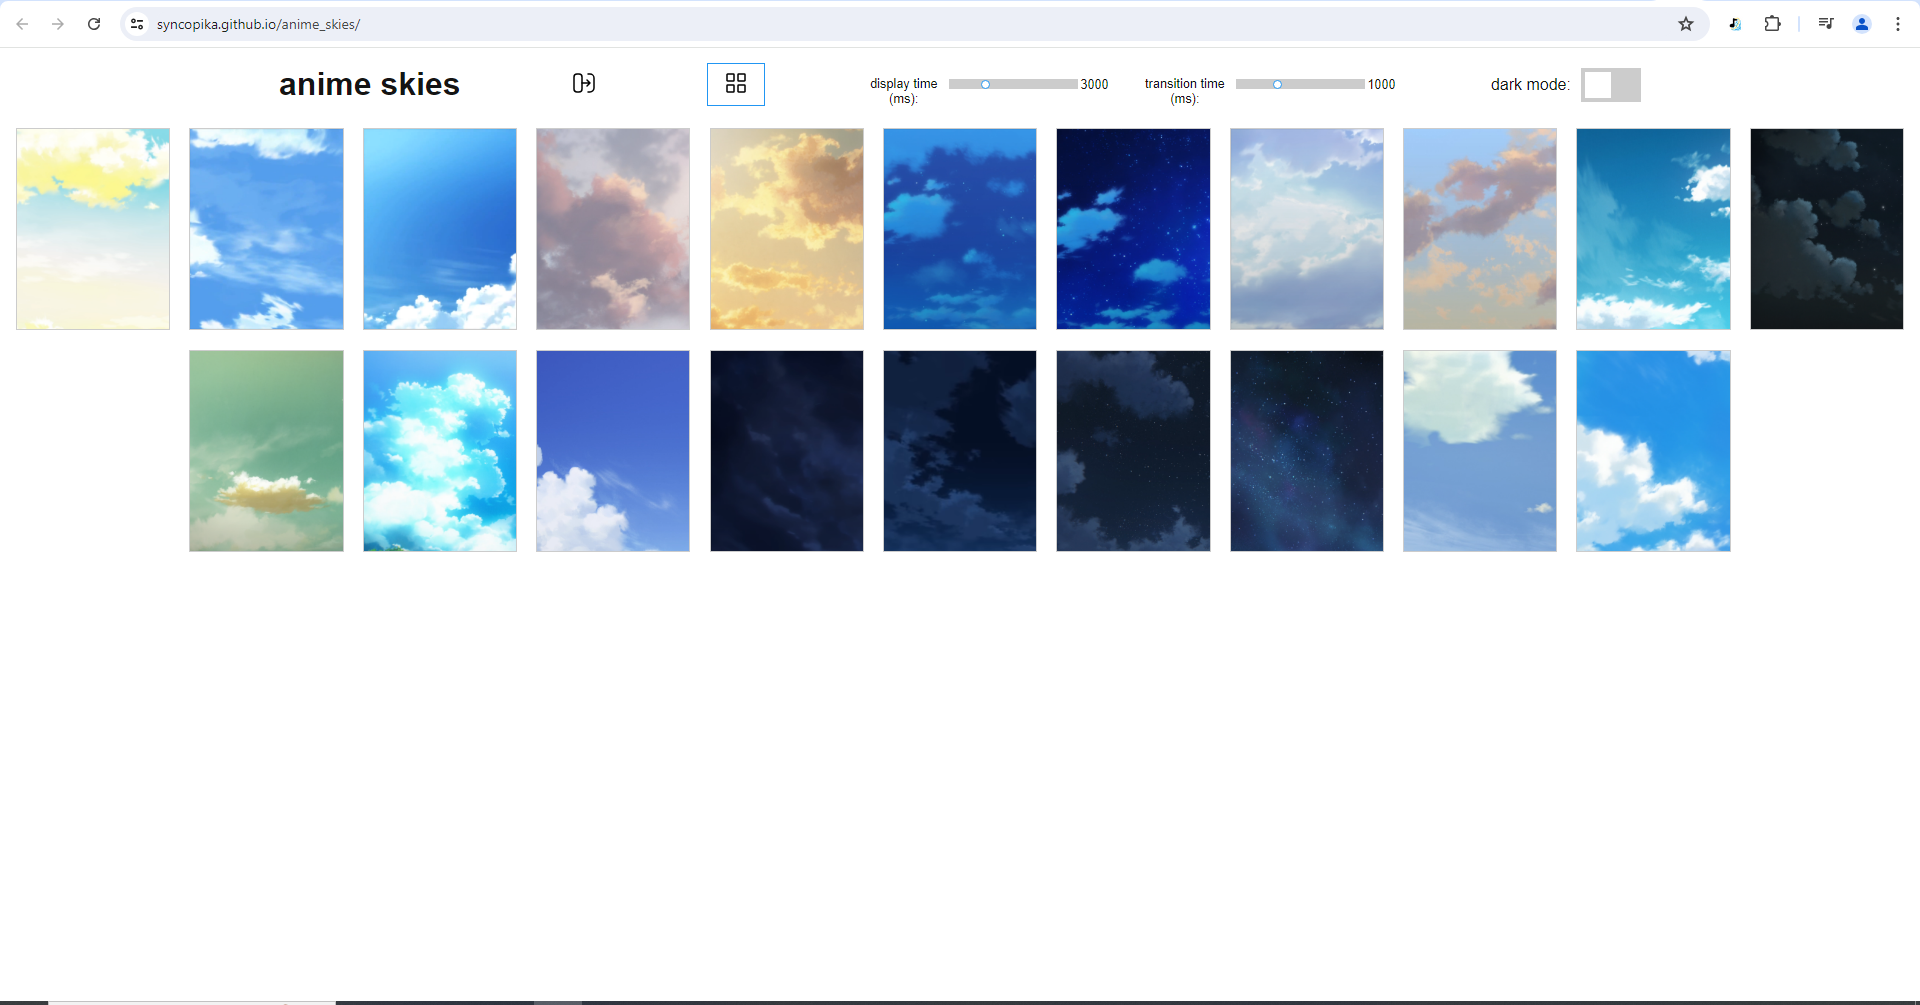
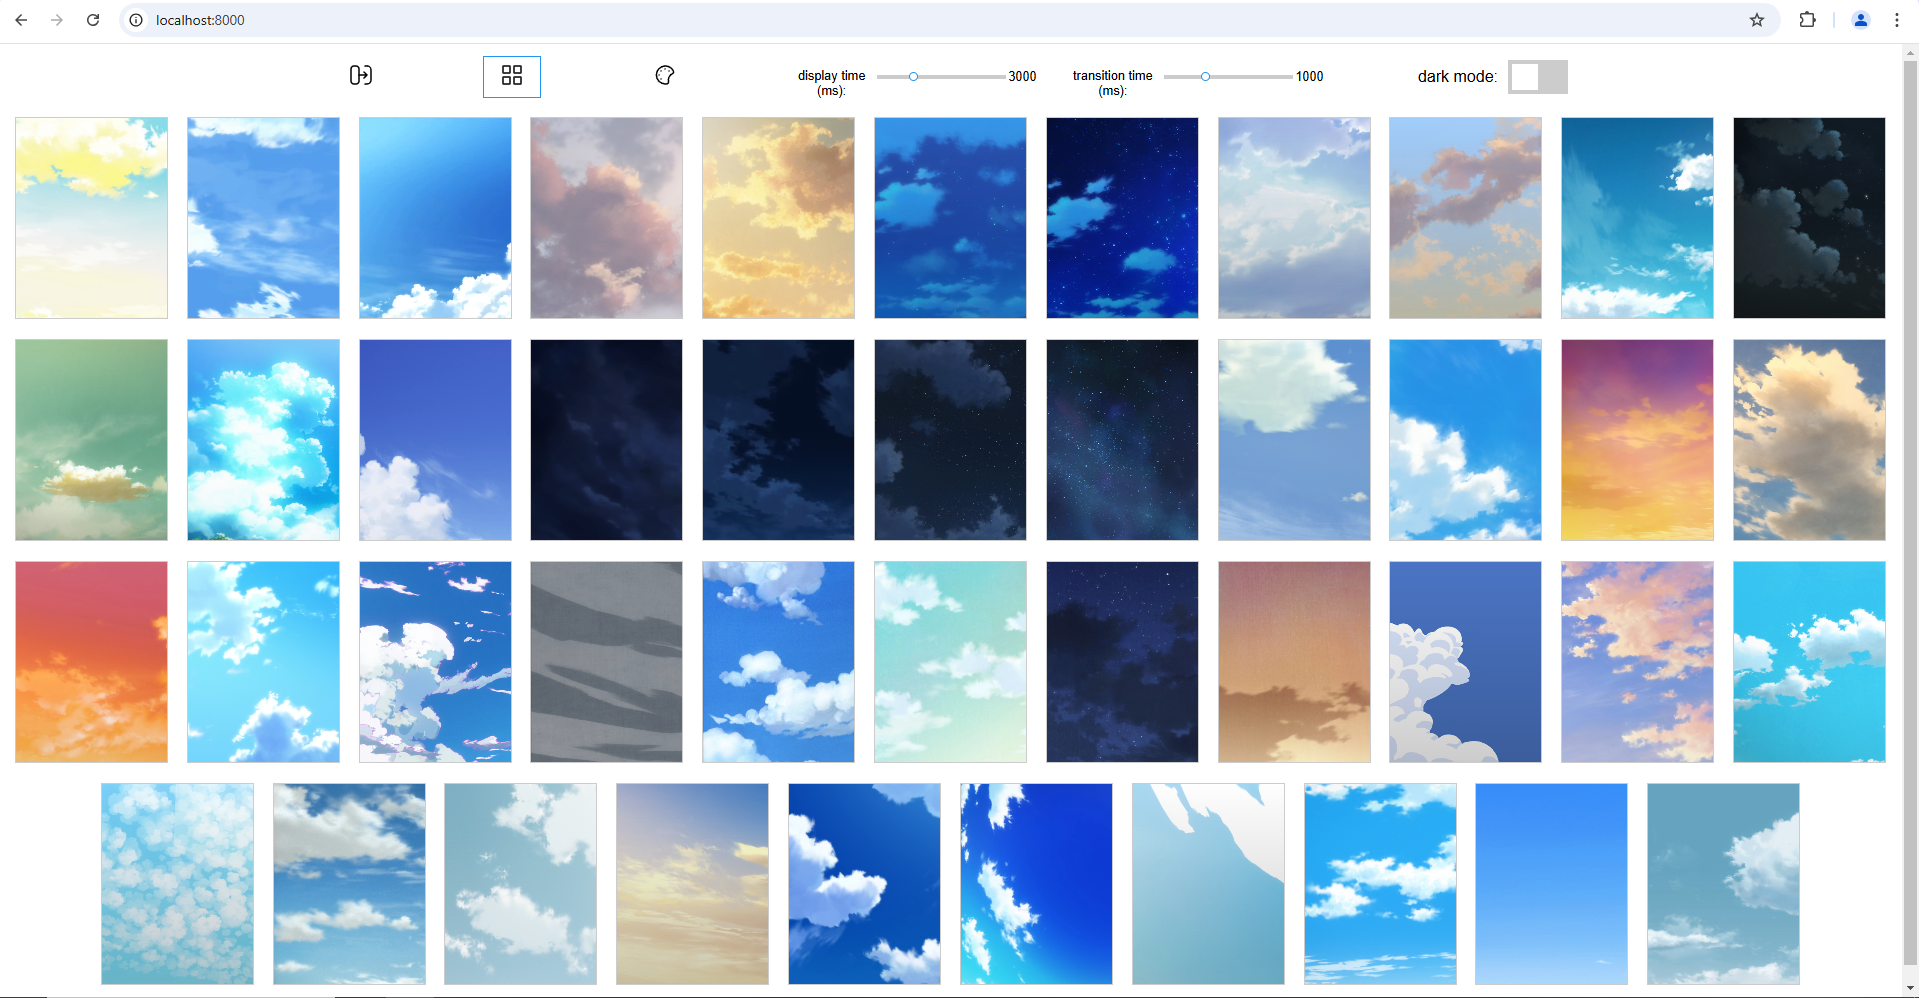
some improvements (#3)
* added a palette icon, removed h1 from header, slightly better text color selection for palette color, added a sky

* update screenshots

diff --git a/index.html b/index.html
@@ -214,19 +214,19 @@
   
   <body>
     <header>
-      <h1> anime skies </h1>
       <button id='slideshowMode' title='slideshow'>
         <!-- from https://iconoir.com/ (transition-right) -->
-        <?xml version="1.0" encoding="UTF-8"?><svg width="24px" height="24px" stroke-width="1.5" viewBox="0 0 24 24" fill="none" xmlns="http://www.w3.org/2000/svg" color="#000000"><path d="M2 18V6C2 4.34315 3.34315 3 5 3H7C8.65685 3 10 4.34315 10 6V18C10 19.6569 8.65685 21 7 21H5C3.34315 21 2 19.6569 2 18Z" stroke="#000000" stroke-width="1.5"></path><path d="M16 3H18C20.2091 3 22 4.79086 22 7V17C22 19.2091 20.2091 21 18 21H16" stroke="#000000" stroke-width="1.5" stroke-linecap="round" stroke-linejoin="round"></path><path d="M10 12H18M18 12L15 9M18 12L15 15" stroke="#000000" stroke-width="1.5" stroke-linecap="round" stroke-linejoin="round"></path></svg>
+        <svg width="24px" height="24px" stroke-width="1.5" viewBox="0 0 24 24" fill="none" xmlns="http://www.w3.org/2000/svg" color="#000000"><path d="M2 18V6C2 4.34315 3.34315 3 5 3H7C8.65685 3 10 4.34315 10 6V18C10 19.6569 8.65685 21 7 21H5C3.34315 21 2 19.6569 2 18Z" stroke="#000000" stroke-width="1.5"></path><path d="M16 3H18C20.2091 3 22 4.79086 22 7V17C22 19.2091 20.2091 21 18 21H16" stroke="#000000" stroke-width="1.5" stroke-linecap="round" stroke-linejoin="round"></path><path d="M10 12H18M18 12L15 9M18 12L15 15" stroke="#000000" stroke-width="1.5" stroke-linecap="round" stroke-linejoin="round"></path></svg>
       </button>
       
       <button id='gridMode' title='grid'>
         <!-- from https://iconoir.com/ (grid) -->
-        <?xml version="1.0" encoding="UTF-8"?><svg width="24px" height="24px" stroke-width="1.5" viewBox="0 0 24 24" fill="none" xmlns="http://www.w3.org/2000/svg" color="#000000"><path d="M14 20.4V14.6C14 14.2686 14.2686 14 14.6 14H20.4C20.7314 14 21 14.2686 21 14.6V20.4C21 20.7314 20.7314 21 20.4 21H14.6C14.2686 21 14 20.7314 14 20.4Z" stroke="#000000" stroke-width="1.5"></path><path d="M3 20.4V14.6C3 14.2686 3.26863 14 3.6 14H9.4C9.73137 14 10 14.2686 10 14.6V20.4C10 20.7314 9.73137 21 9.4 21H3.6C3.26863 21 3 20.7314 3 20.4Z" stroke="#000000" stroke-width="1.5"></path><path d="M14 9.4V3.6C14 3.26863 14.2686 3 14.6 3H20.4C20.7314 3 21 3.26863 21 3.6V9.4C21 9.73137 20.7314 10 20.4 10H14.6C14.2686 10 14 9.73137 14 9.4Z" stroke="#000000" stroke-width="1.5"></path><path d="M3 9.4V3.6C3 3.26863 3.26863 3 3.6 3H9.4C9.73137 3 10 3.26863 10 3.6V9.4C10 9.73137 9.73137 10 9.4 10H3.6C3.26863 10 3 9.73137 3 9.4Z" stroke="#000000" stroke-width="1.5"></path></svg>
+        <svg width="24px" height="24px" stroke-width="1.5" viewBox="0 0 24 24" fill="none" xmlns="http://www.w3.org/2000/svg" color="#000000"><path d="M14 20.4V14.6C14 14.2686 14.2686 14 14.6 14H20.4C20.7314 14 21 14.2686 21 14.6V20.4C21 20.7314 20.7314 21 20.4 21H14.6C14.2686 21 14 20.7314 14 20.4Z" stroke="#000000" stroke-width="1.5"></path><path d="M3 20.4V14.6C3 14.2686 3.26863 14 3.6 14H9.4C9.73137 14 10 14.2686 10 14.6V20.4C10 20.7314 9.73137 21 9.4 21H3.6C3.26863 21 3 20.7314 3 20.4Z" stroke="#000000" stroke-width="1.5"></path><path d="M14 9.4V3.6C14 3.26863 14.2686 3 14.6 3H20.4C20.7314 3 21 3.26863 21 3.6V9.4C21 9.73137 20.7314 10 20.4 10H14.6C14.2686 10 14 9.73137 14 9.4Z" stroke="#000000" stroke-width="1.5"></path><path d="M3 9.4V3.6C3 3.26863 3.26863 3 3.6 3H9.4C9.73137 3 10 3.26863 10 3.6V9.4C10 9.73137 9.73137 10 9.4 10H3.6C3.26863 10 3 9.73137 3 9.4Z" stroke="#000000" stroke-width="1.5"></path></svg>
       </button>
       
       <button id='analyzeSky' onclick='analyzeImage(skies[skyIndex])'>
-        sky palette
+        <!-- from https://iconoir.com/ (palette) -->
+        <svg width="24px" height="24px" stroke-width="1.5" viewBox="0 0 24 24" fill="none" xmlns="http://www.w3.org/2000/svg" color="#000000"><path d="M20.5096 9.54C20.4243 9.77932 20.2918 9.99909 20.12 10.1863C19.9483 10.3735 19.7407 10.5244 19.5096 10.63C18.2796 11.1806 17.2346 12.0745 16.5002 13.2045C15.7659 14.3345 15.3733 15.6524 15.3696 17C15.3711 17.4701 15.418 17.9389 15.5096 18.4C15.5707 18.6818 15.5747 18.973 15.5215 19.2564C15.4682 19.5397 15.3588 19.8096 15.1996 20.05C15.0649 20.2604 14.8877 20.4403 14.6793 20.5781C14.4709 20.7158 14.2359 20.8085 13.9896 20.85C13.4554 20.9504 12.9131 21.0006 12.3696 21C11.1638 21.0006 9.97011 20.7588 8.85952 20.2891C7.74893 19.8194 6.74405 19.1314 5.90455 18.2657C5.06506 17.4001 4.40807 16.3747 3.97261 15.2502C3.53714 14.1257 3.33208 12.9252 3.36959 11.72C3.4472 9.47279 4.3586 7.33495 5.92622 5.72296C7.49385 4.11097 9.60542 3.14028 11.8496 3H12.3596C14.0353 3.00042 15.6777 3.46869 17.1017 4.35207C18.5257 5.23544 19.6748 6.49885 20.4196 8C20.6488 8.47498 20.6812 9.02129 20.5096 9.52V9.54Z" stroke="#000000" stroke-width="1.5"></path><path d="M8 16.01L8.01 15.9989" stroke="#000000" stroke-width="1.5" stroke-linecap="round" stroke-linejoin="round"></path><path d="M6 12.01L6.01 11.9989" stroke="#000000" stroke-width="1.5" stroke-linecap="round" stroke-linejoin="round"></path><path d="M8 8.01L8.01 7.99889" stroke="#000000" stroke-width="1.5" stroke-linecap="round" stroke-linejoin="round"></path><path d="M12 6.01L12.01 5.99889" stroke="#000000" stroke-width="1.5" stroke-linecap="round" stroke-linejoin="round"></path><path d="M16 8.01L16.01 7.99889" stroke="#000000" stroke-width="1.5" stroke-linecap="round" stroke-linejoin="round"></path></svg>
       </button>
       
       <div id='options'>

diff --git a/imageAnalysis.js b/imageAnalysis.js
@@ -1,10 +1,13 @@
 // functions for analyzing sky images
 
 function invertColor(rgbColorString){
-  const invertedColor = rgbColorString
-          .match(/(\d+)/g)
-          .map(c => 255 - parseInt(c))
-          .join(',');
+  // binarize first. if any channel is > 200, we'll say that color is #fff. else #000.
+  const match = rgbColorString.match(/(\d+)/g);
+  const newChanColor = match.some(c => c > 200) ? 255 : 0;
+  // then invert
+  const invertedColor = match
+                        .map(c => 255 - newChanColor)
+                        .join(',');
   return `rgb(${invertedColor})`;
 }
 
